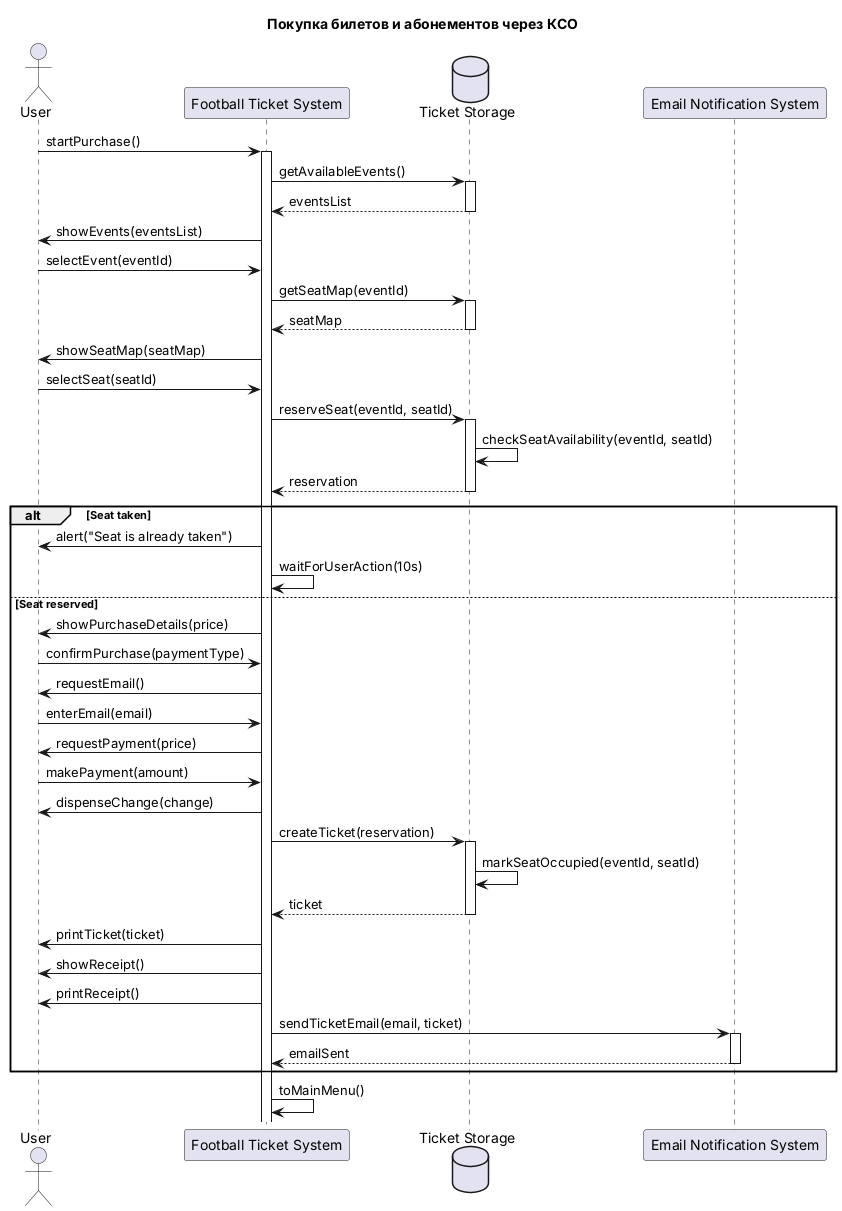
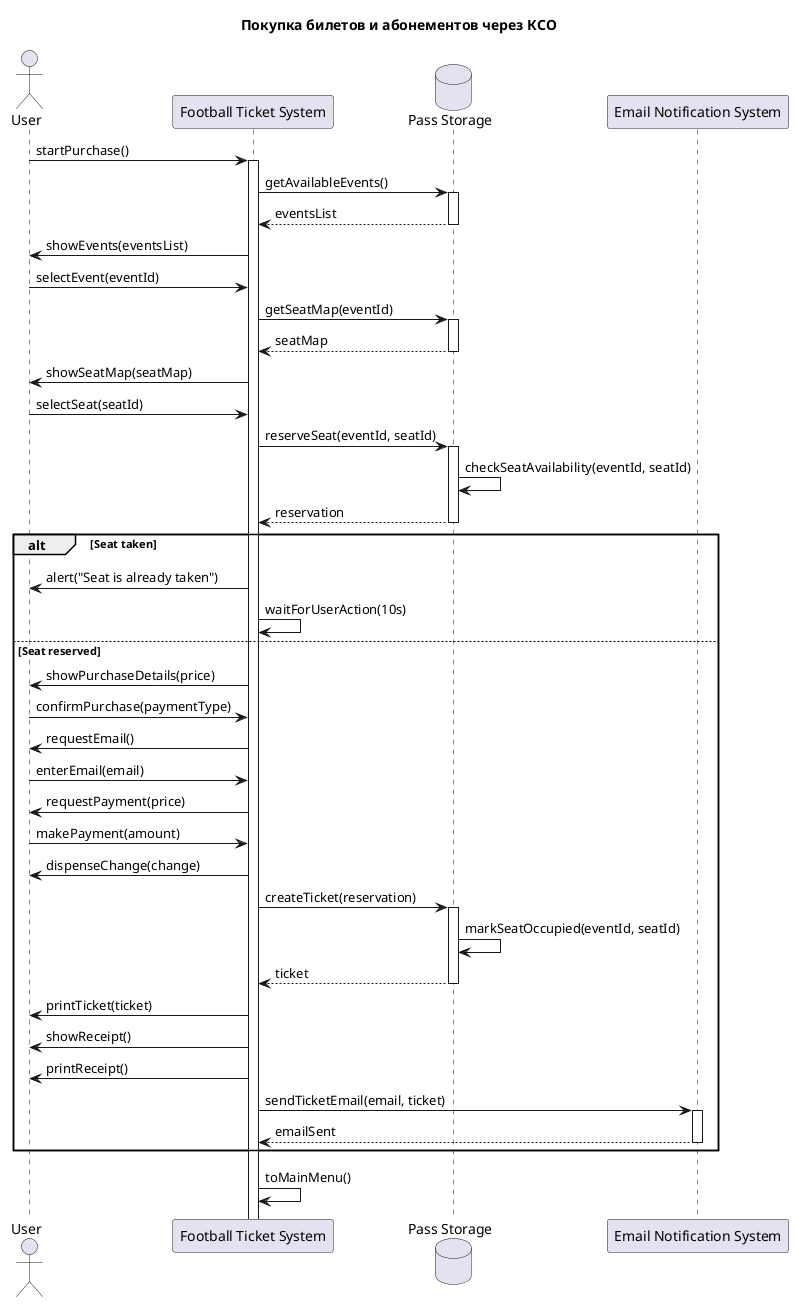
Перерисовал PNG диаграмм из plantuml-кода: FTS, Pass Storage, без уровня UI

diff --git a/Видение.md b/Видение.md
@@ -36,6 +36,36 @@
 
 ![Рисунок 1](source/diagram2.png)
 Рисунок Видение 1. Контекстаная диаграмма FTS 
+
+```plantuml
+@startuml
+left to right direction
+skinparam packageStyle rect
+
+actor "Кассир" as Cashier
+actor "Покупатель" as Buyer
+actor "Система контроля базы данных с местами" as SeatsDb
+actor "Менеджер" as Manager
+actor "Служба охранны" as Security
+actor "Система анализа прибыльности мероприятия" as Analytics
+actor "Бухгалтерская система" as Accounting
+actor "Система почтовых уведомлений" as Email
+
+usecase "FTS" as FTS
+
+Cashier --> FTS
+Buyer --> FTS
+SeatsDb --> FTS
+Manager --> FTS
+
+FTS --> Security
+FTS --> Analytics
+FTS --> Accounting
+FTS --> Email
+
+@enduml
+```
+
 ### Преимущества FTS 
 
 ### Основные свойства FTS 
